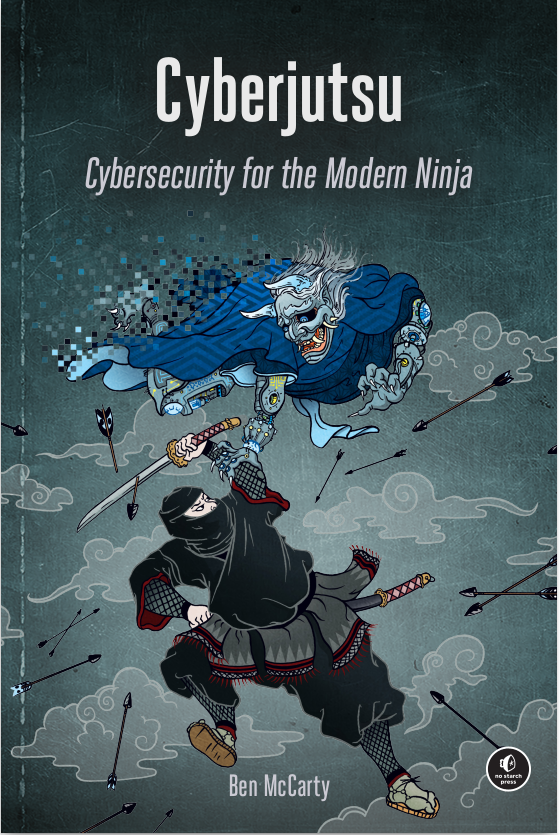
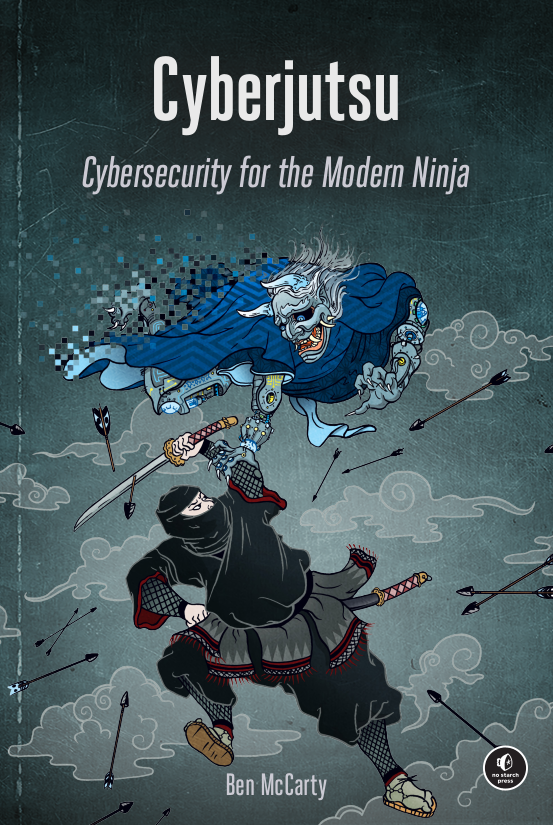
Center text and add font

diff --git a/app/javascript/components/Home.jsx b/app/javascript/components/Home.jsx
@@ -1,5 +1,6 @@
 import React from "react";
 import { useState } from "react";
+import '../../assets/stylesheets/application.css'
 
 export default function Book() {
   const [text, setText] = useState("What can Ninjas teach us about Cyber Security?");
@@ -23,21 +24,31 @@ export default function Book() {
     setText(event.target.value);
   }
 
+  const s = {
+    margin: "auto",
+    maxWidth: "600px"
+  }
+
+  const img = {
+    width: "100%",
+    maxWidth: "300px"
+  }
+
   return (
     <div>
-      <div>
+      <div style={s}>
         <div>
-          <h1>A Book...</h1>
+          <h1>Ask The Ninja</h1>
           <p>
-            Ask this book a question and it will answer you. But remember, it is just a book. <br/>
-            So ask it about the kind of things you would judge it to know -- based on its cover. :)
+            Ask this book a question. It will respond. Kind of. A bit like a magic book, but more boring, because we think we know how it works. But remember, it is just a book.
+            So ask it about the kind of things you would judge it to know -- based on its cover.
           </p>
-          <hr/>
+          <img style={img} src="/cybercover.png"></img>
 
           <div>
             <textarea 
               rows = "5" 
-              cols = "60" 
+              cols = "35" 
               value={text}
               onChange={handleChange}
             ></textarea>
@@ -46,13 +57,10 @@ export default function Book() {
           <div>
           <button onClick={submit}>Ask</button>
           </div>
-          <hr/>
 
           <div>
             <p>{answer}</p>
           </div>
-          
-          <img src="/cybercover.png"></img>
         </div>
       </div>
     </div>

diff --git a/app/assets/stylesheets/application.css b/app/assets/stylesheets/application.css
@@ -13,3 +13,16 @@
  *= require_tree .
  *= require_self
  */
+
+
+ @import url('https://fonts.googleapis.com/css2?family=Abel&display=swap');
+
+ body {
+    font-family: 'Abel', sans-serif;
+    background-color: #201E1F;
+    color: #FEEFDD;
+ }
+
+ h1 {
+    color: #FF4000;
+ }
